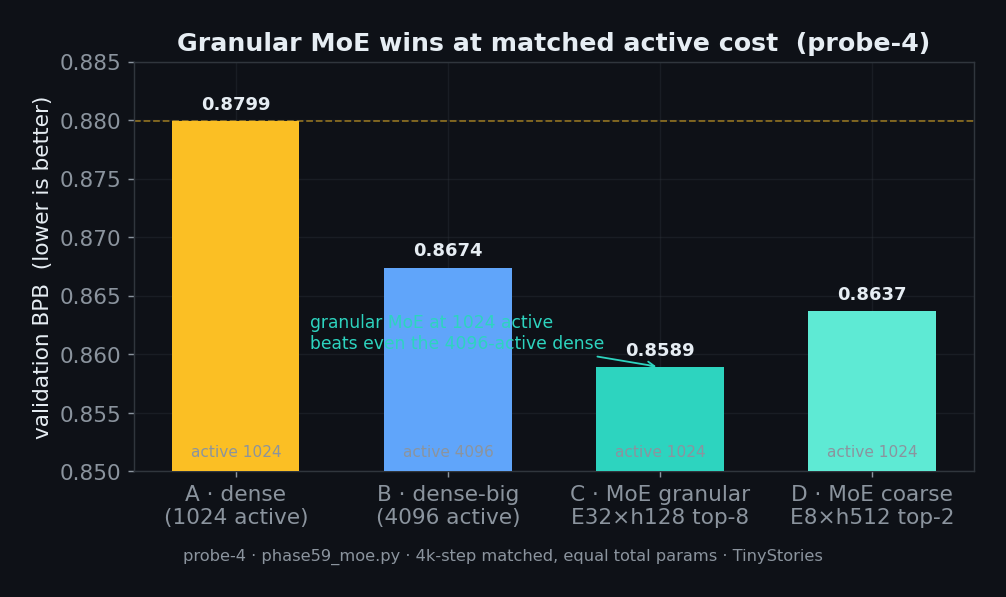
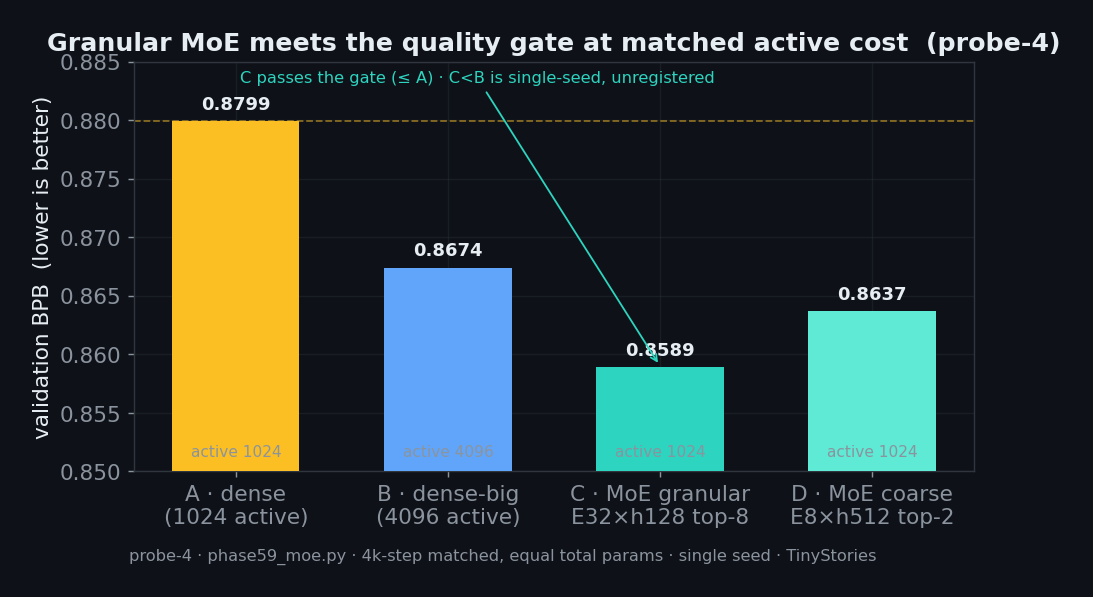
Silicon Entropy Engine: realign public claims to internal verdicts
Honest reformulations (external review #2) — no numbers changed, only framing
made verifiable and scoped to what the verdicts actually support:
- MoE: lead with the pre-registered gate pass; demote "beats 4x-active dense" to
  a labeled single-seed, unregistered observation (README + chart annotation).
- Recall: separate cost (~18 us on a 128K index, measured) from quality
  (validated at 8K + 21x OOD proxy + bounded-norm argument, not a direct 128K
  recall measurement).
- Predictability: add the weak ahead-of-time number (50-63%) next to in-place
  (86-92%); the durable mechanism is in-place skip, not prefetch.
- Composition (21x / +0.03 BPB): labeled as separately-measured deltas at
  different steps; matched-convergence A/B queued.
- "1.58-bit": footnote that the engine packs 4 bits/weight today (trit-pack queued).
- Global caveats: all training A/B verdicts single-seed; all properties on
  TinyStories 5-22M; Cat-A product domain untested; recall and engine are two
  separate lineages (fusion is future).
- Chart integrity: int8 bar labeled as a literature figure (hatched); no int8
  arm was built.

diff --git a/scripts/make_readme_charts.py b/scripts/make_readme_charts.py
@@ -52,11 +52,17 @@ def _finish(fig, name, sub=None):
 # Source: benchmarks/phase57/phase57_lutbench.c on Ryzen 5 3600X (Zen 2, AVX2).
 # pshufb byte-LUT matvec vs fp32; all kernels bit-exact vs scalar integer ref.
 def chart_bits_speed():
-    labels = ["fp32\n(32-bit)", "int8\n(no VNNI)", "4-bit", "ternary\n(1.58-bit)", "1-bit"]
+    # NOTE ON PROVENANCE: ternary/4-bit/1-bit = measured on the 3600X (phase57_lutbench.c,
+    # range mid-points). int8 = a LITERATURE figure (~1.2x, VNNI-less dequant): probe-1 did
+    # not build an int8-dequant arm, so it is shown for context only, hatched + "(lit.)".
+    # (Future: read these from a committed results JSON instead of hardcoding.)
+    labels = ["fp32\n(32-bit)", "int8\n(lit.)", "4-bit", "ternary\n(1.58-bit)", "1-bit"]
     speed  = [1.0, 1.2, 1.9, 4.6, 9.0]           # x over fp32 matvec
     colors = [AMBER, RED, BLUE, TEAL, TEAL]
     fig, ax = plt.subplots(figsize=(7.2, 4.3))
     bars = ax.bar(labels, speed, color=colors, width=0.62, zorder=3)
+    bars[1].set_hatch("//")          # int8 = literature, visually distinguished
+    bars[1].set_alpha(0.55)
     for b, s in zip(bars, speed):
         ax.text(b.get_x()+b.get_width()/2, s+0.15, f"{s:.1f}×", ha="center",
                 va="bottom", color=INK, fontweight="bold")
@@ -64,11 +70,11 @@ def chart_bits_speed():
     ax.set_ylabel("speedup vs fp32 matvec  (batch-1, single core)")
     ax.set_title("Fewer bits → faster on Zen 2  (pshufb byte-LUT, no VNNI)")
     ax.set_ylim(0, 10.2)
-    ax.annotate("int8 stalls without VNNI —\nthe LUT path goes the other way",
+    ax.annotate("int8 = literature reference\n(no int8 arm was built here)",
                 xy=(1, 1.2), xytext=(1.35, 4.4), color=MUTED, fontsize=9.5,
                 arrowprops=dict(arrowstyle="->", color=MUTED, lw=1))
     _finish(fig, "bench_ternary_speed.png",
-            "benchmarks/phase57/phase57_lutbench.c · Ryzen 5 3600X · bit-exact vs scalar ref")
+            "measured (ternary/4-bit/1-bit): phase57_lutbench.c on 3600X, bit-exact · int8 bar = literature")
 
 
 # ---------------------------------------------------- 2. ternary quality cost (tiny)
@@ -233,12 +239,12 @@ def chart_moe():
     ax.axhline(bpb[0], color=AMBER, ls="--", lw=1, alpha=0.5, zorder=2)
     ax.set_ylabel("validation BPB  (lower is better)")
     ax.set_ylim(0.850, 0.885)
-    ax.set_title("Granular MoE wins at matched active cost  (probe-4)")
-    ax.annotate("granular MoE at 1024 active\nbeats even the 4096-active dense",
-                xy=(2, 0.8589), xytext=(0.35, 0.8605), color=TEAL, fontsize=9.5,
+    ax.set_title("Granular MoE meets the quality gate at matched active cost  (probe-4)")
+    ax.annotate("C passes the gate (≤ A) · C<B is single-seed, unregistered",
+                xy=(2, 0.859), xytext=(0.02, 0.8832), color=TEAL, fontsize=9,
                 arrowprops=dict(arrowstyle="->", color=TEAL, lw=1))
     _finish(fig, "bench_moe.png",
-            "probe-4 · phase59_moe.py · 4k-step matched, equal total params · TinyStories")
+            "probe-4 · phase59_moe.py · 4k-step matched, equal total params · single seed · TinyStories")
 
 
 # ------------------------------------------------- 7. C engine speedup ladder

diff --git a/README.md b/README.md
@@ -15,6 +15,8 @@
 
 <sub>Research project · target hardware: Ryzen 5 3600X (Zen 2, AVX2, **no** AVX-512 / VNNI) · 128K-context goal</sub>
 
+<sub>The diagram is the **target design**; components are at different validation stages (see [Status](#status)) and the recall tier is not yet fused with the engine core.</sub>
+
 </div>
 
 ---
@@ -38,9 +40,11 @@ Everything is held together by a **block-decode chassis** that turns the CPU's w
 
 The project advances by **pre-registered probes**: each hypothesis gets a controlled experiment with a gate fixed *before* the results are seen. Here is what has survived.
 
+> **Two caveats that apply to every number below.** (1) All training A/B verdicts are **single-seed** (seed 0); seed variance is not yet characterized — a multi-seed calibration is queued. (2) All properties are measured on **TinyStories at 5–22M parameters**; the declared product domain (Cat-A: code, logs, structured text) is **not yet tested**.
+
 ### 1 · Ternary weights are the right call on Zen 2 — and cost almost nothing in quality
 
-Without AVX-512/VNNI, the usual int8 quantization path barely helps (~1.2×). A **ternary (1.58-bit) weight** kernel using `pshufb` byte-LUTs goes the *other* way — fewer bits means faster — and every kernel is bit-exact against a scalar reference.
+Without AVX-512/VNNI, the usual int8 quantization path barely helps (~1.2×, a literature figure — this project measured the ternary and bit-serial LUT kernels, not an int8-dequant arm). A **ternary (1.58-bit) weight** kernel using `pshufb` byte-LUTs goes the *other* way — fewer bits means faster — and every kernel is bit-exact against a scalar reference.
 
 <div align="center">
 <img src="assets/bench_ternary_speed.png" width="49%">
@@ -49,9 +53,11 @@ Without AVX-512/VNNI, the usual int8 quantization path barely helps (~1.2×). A 
 
 Trained from scratch (QAT, not post-training), the ternary MLP costs only **+0.028 BPB** at 5M params on TinyStories — and that is an *upper bound*, since the ternary run was still improving when measured. We ternarize **only the MLP** (the byte-sink), keeping the recurrent backbone in fp32; the ternary gap is known to shrink with scale, so micro-scale is the pessimistic end.
 
+> **On "1.58-bit".** A ternary weight carries ~1.58 bits of information, but the current engine *packs* them at **4 bits/weight** (base-3, g=2 codes); the dense trit-pack (~1.6 bits/weight) is queued. Every streamed-byte figure on this page uses the real 4-bit packing, not the 1.58-bit ideal.
+
 ### 2 · Activation sparsity and the L3 cliff
 
-A gated **dReLU** MLP is naturally sparse — up to **92%** of hidden units are inactive per token — at essentially zero quality cost (+0.0006 BPB, matched training). Combined with ternary weights, this compounds along **independent axes** to roughly **21× fewer MLP bytes per token** versus fp32-dense, for about **+0.03 BPB** total.
+A gated **dReLU** MLP is naturally sparse — up to **92%** of hidden units are inactive per token — at essentially zero quality cost (+0.0006 BPB, matched training). Combined with ternary weights, this compounds along **independent axes** to roughly **21× fewer MLP bytes per token** versus fp32-dense, for about **+0.03 BPB** total. *(The 21× and +0.03 BPB are a composition of two deltas measured separately, at different step counts and recipes — 10.7k-step ternary and 4k-step sparsity; a single-anchor A/B at matched convergence is queued.)*
 
 But sparsity only pays if the *working set* fits the cache. A synthetic sweep on the real 3600X finds a sharp **step at 16 MB — the exact L3-per-CCX size** — below which the CPU is compute-bound at ~100 GB/s, and above which it falls off a cliff toward the ~28 GB/s DRAM floor. **This 16 MB is the keystone constraint** that sizes the entire architecture.
 
@@ -64,22 +70,24 @@ But sparsity only pays if the *working set* fits the cache. A synthetic sweep on
 
 Reducing bytes is worthless if the bytes you *do* need are scattered (a random gather defeats the cache). Two findings close this:
 
-- the active set is **intrinsically predictable in-place** — a cheap linear probe on the current state forecasts 86–92% of the active units, no special training needed;
+- the active set is **intrinsically predictable in-place** — a cheap linear probe on the current state forecasts **86–92%** of the active units (same-layer skip), no special training needed. Predicting the *next* token's active set **ahead of time** (what a streaming prefetch controller would need) is much weaker: **50–63%**. The durable mechanism is therefore the in-place skip, not prefetch;
 - a **temporal-coherence regularizer** makes that sparsity **block-structured** (contiguous, cache-friendly) at zero quality cost — recovering the sparsity headline as *real, skippable* blocks rather than a scatter.
 
 <div align="center">
 <img src="assets/bench_predict_sparsity.png" width="85%">
 </div>
 
-Together: you can skip ~half the MLP blocks, and cheaply predict *which* half — the control system that lets a mixture-of-experts and the cache actually pay off in bandwidth.
+Together: you can skip ~half the MLP blocks, and cheaply predict *which* half **at the point of use** — the in-place skip is what lets a sparse MLP avoid a random gather. (Skipping *ahead* — prefetching the next token's set — is not reliable here; see the weak ahead-of-time number above.)
 
 ### 4 · Long-context recall that fits the budget
 
-A two-stage IVF-PQ retrieval tier gives **128K-context recall in ~18 µs/query** on CPU. The load-bearing originality is the **learned InfoNCE representation** (not the partition, which can be data-independent and simpler). A predicted failure mode — query *drift* over long contexts — was investigated and found **absent** on this SSM: the state norm is bounded, so recall stays flat versus distance in-distribution and 21× out-of-distribution.
+A two-stage IVF-PQ retrieval tier answers a query in **~18 µs, measured on a 128K-entry index** on CPU — the *cost* is in budget at 128K. The *quality* is validated on a smaller footing: recall is flat versus distance at **8K in-distribution**, plus a **21× out-of-distribution** proxy and a structural bounded-norm argument (a predicted failure mode — query *drift* over long contexts — is **absent** on this SSM because the state norm is bounded). This is **not yet a direct recall measurement at 128K**. The load-bearing originality is the **learned InfoNCE representation** (not the partition, which can be data-independent and simpler).
 
 ### 5 · Scaling capacity without scaling the active cost — granular MoE
 
-A mixture-of-experts grows *total* parameters while keeping the *active* parameters per token inside the cache budget. At matched active cost (and matched total params), a **granular MoE** (many small experts, top-k routed) not only preserves quality — it improves on the dense baseline, and even edges out a dense model with 4× the active parameters. Fine-grained experts beat coarse ones, confirming the block-structure finding above.
+A mixture-of-experts grows *total* parameters while keeping the *active* parameters per token inside the cache budget. The pre-registered result: at matched active cost, a **granular MoE** (many small experts, top-k routed) **passes the quality gate** (BPB ≤ baseline + 0.01) and in fact *improves* on the dense baseline — the capacity tier costs nothing in quality. Fine-grained experts beat coarse ones, consistent with the block-structure finding above.
+
+> **Labeled observation (not a registered result).** At matched steps (4k, single seed, heavy undertraining) the granular MoE also *led* the 4×-active dense arm. This is an **unregistered, single-seed observation** — it may reflect training *speed* rather than *capacity*; a multi-seed / convergence check is queued. We do **not** claim "MoE beats a 4× dense model."
 
 <div align="center">
 <img src="assets/bench_moe.png" width="70%">
@@ -116,14 +124,17 @@ Scope, as always: at 5M sandbox scale everything is cache-resident, so these num
 | **C inference engine (E1–E4)** | ✅ **validated end-to-end** | **176→848 tok/s (4.8×), parity-gated, +0.00004 BPB** |
 | Block-decode / MTP execution (E5) | 📋 designed | roadmap (execution chassis) |
 
-See [`docs/SCALEUP_ARCHITECTURE.md`](docs/SCALEUP_ARCHITECTURE.md) for the full buildable blueprint, and [`HANDOFF.md`](HANDOFF.md) for the complete technical narrative including every negative result.
+<sub>Notes: training A/B verdicts are single-seed (seed 0). "Ternary 1.58-bit" refers to the weights' information content; the engine stores them at 4 bits/weight today (trit-pack queued). All measured on TinyStories at 5–22M params.</sub>
+
+See [`docs/SCALEUP_ARCHITECTURE.md`](docs/SCALEUP_ARCHITECTURE.md) for the full buildable blueprint, and [`HANDOFF.md`](HANDOFF.md) for the technical narrative including negative results.
 
 ---
 
 ## What this is *not* (scope discipline)
 
 - **Not a scale-up speedup yet.** The engine's 176→848 tok/s is real and single-threaded, but at 5M sandbox scale everything is cache-resident — it validates *correctness* and *kernel-level* speed, not the streamed two-pool bandwidth at billions of parameters (which is counted and priced, not yet run). The probes measure architectural *properties*; the scale-up engine is the next frontier.
-- **Not a finished LLM.** The current model is trained on TinyStories at small scale to isolate architectural questions cleanly. Broad-distribution quality at scale is future work.
+- **Not a finished LLM.** The current model is trained on TinyStories at 5–22M parameters to isolate architectural questions cleanly. Broad-distribution quality at scale is future work — and the *declared product domain* (Cat-A: code, logs, structured text, where the agentic thesis expects the best acceptance) is **not yet tested**; that probe is queued.
+- **Not yet one fused system.** The long-context recall tier (the phase-56 model line) and the engine's thinking core (the phase-58/59 line) are today **two separate lineages**. Unifying them into a single model with a recall slot is future work (E5+).
 - **Honest about magnitude.** Individual levers are stated at their *predictor-free, measured* value (e.g. 2.12× sparsity, ~3× residency), never the optimistic ceiling. The compound win is one-to-two orders of magnitude, but no single headline number is load-bearing.
 
 ---
